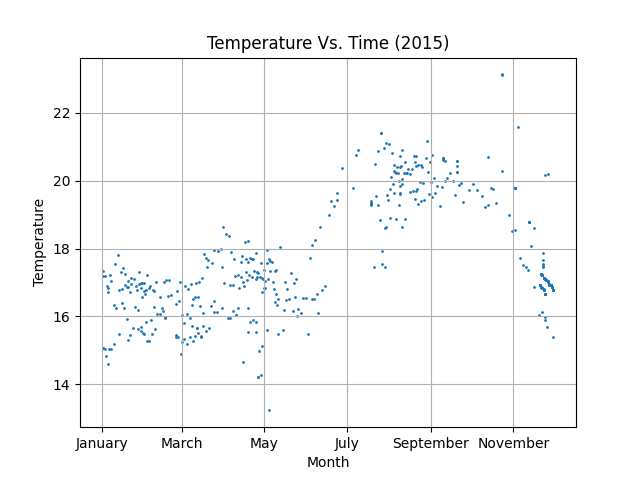
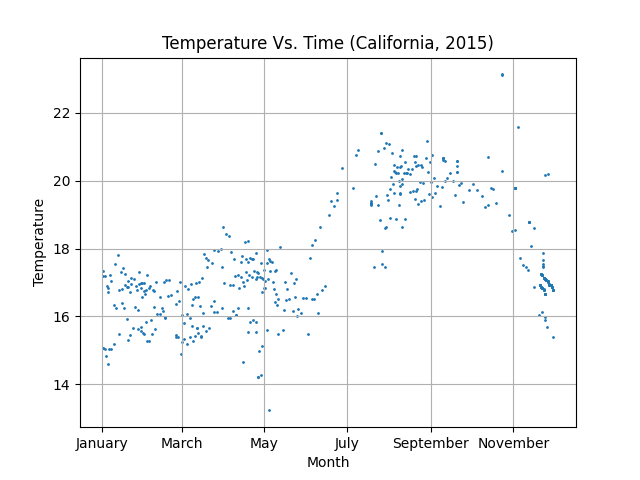
California

Changed region(s): [[0.25, 0.0625, 0.7812, 0.125]]

diff --git a/temp_vs_time_CA.py b/temp_vs_time_CA.py
@@ -31,7 +31,7 @@ if __name__ == "__main__":
     time = np.array([datetime.strptime(time_string, '%Y-%m-%d %H:%M:%S') for time_string in time_strings])
     plt.grid(True)
 
-    plt.title('Temperature Vs. Time (2015)')
+    plt.title('Temperature Vs. Time (California, 2015)')
 
     plt.gca().xaxis.set_major_formatter(mdates.DateFormatter('%B'))
 
